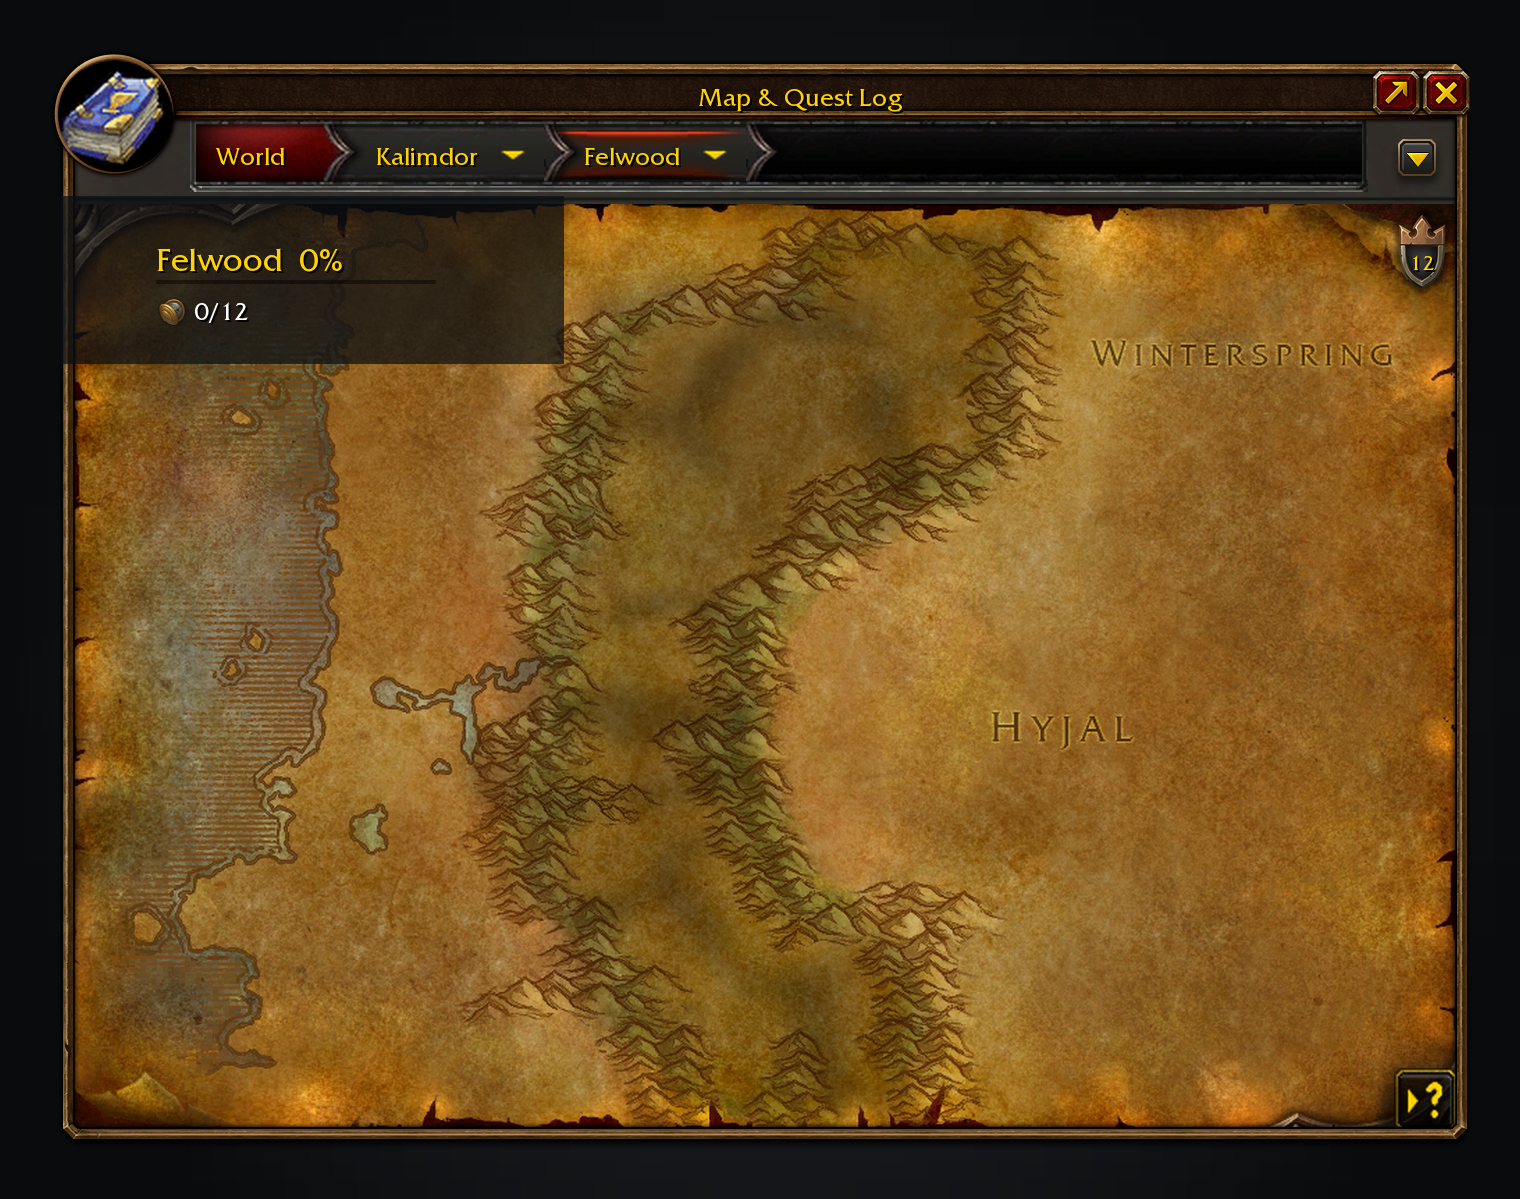
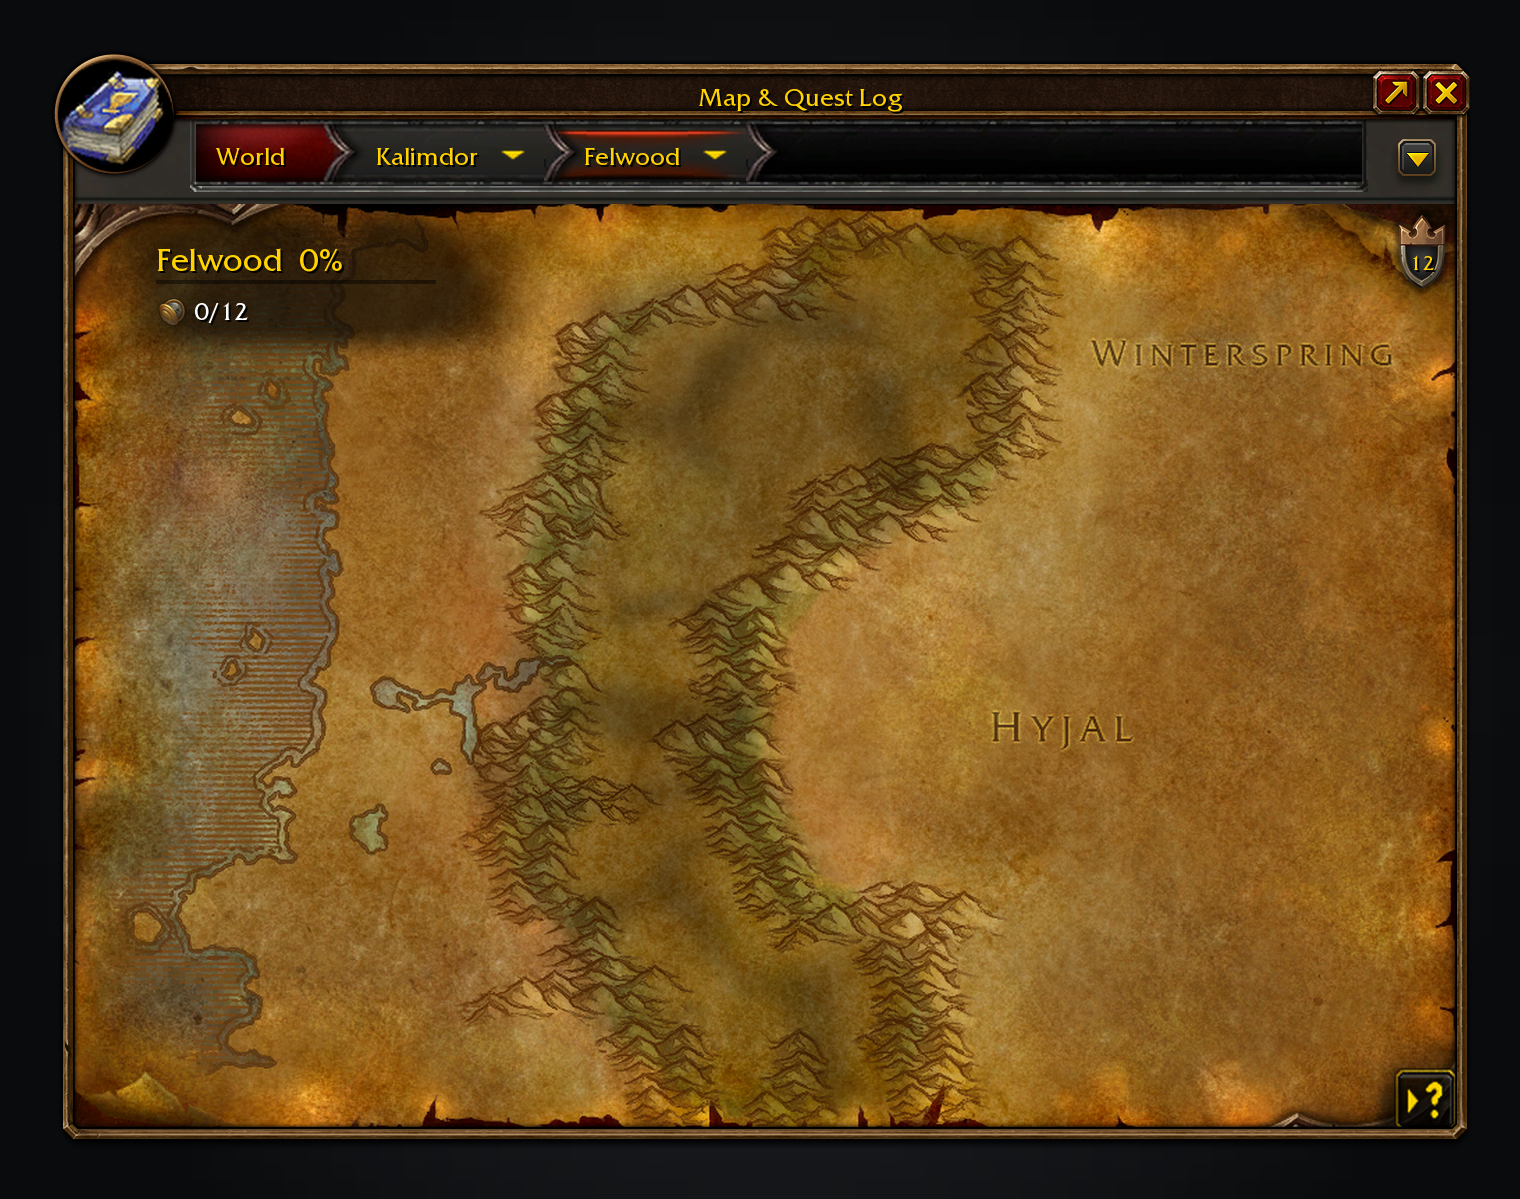
fix(legacy): keep media/Shade.tga, the completion wash draws it at run time
UI/Completion.xml loads Interface\AddOns\LegacyForever\media\Shade as the
feathered wash behind the completion text, so the texture is a runtime asset
rather than screenshot-only tooling art. Restoring the file, its THIRD_PARTY
entry and the screenshot source list keeps the package check green and the
rendered scenes honest.

Changed region(s): [[0.0309, 0.1543, 0.3711, 0.3086]]

diff --git a/tools/screenshots.py b/tools/screenshots.py
@@ -464,7 +464,8 @@ def completion_corner(ui, canvas, rects, result, name, collapsed=False):
     if not collapsed:
         width = max(width, canvas.text_width(counts, counts_font))
         height += 6 + counts_font.height
-    canvas.fill(x - 48, y - 22, width + 48 + 64, height + 44, (0.04, 0.06, 0.08, 0.72))
+    shade = Image.open(ROOT / "media" / "Shade.tga").convert("RGBA")
+    canvas.draw(shade, x - 48, y - 22, width + 48 + 64, height + 44, (1, 1, 1, 0.6))
     canvas.text(x, y, title, title_font)
     bar_y = y + title_font.height + 4
     canvas.fill(x, bar_y, width, 2, (0, 0, 0, 0.45))

diff --git a/tools/check_screenshots.py b/tools/check_screenshots.py
@@ -30,6 +30,7 @@ SOURCES = (
     "UI/Completion.lua",
     "UI/MapContents.lua",
     "UI/Tracker.lua",
+    "media/Shade.tga",
 )
 SCENES = {
     path.name: functools.partial(screens.files, ROOT, SOURCES)

diff --git a/THIRD_PARTY.md b/THIRD_PARTY.md
@@ -11,7 +11,8 @@ refresh that moves the pin never leaves this file behind. The addon itself is GP
 | WoW: Forever client tables, via [wago.tools](https://wago.tools) | Achievements, criteria, zones and instances in `Data/Legacy.lua` | `BUILD` in `tools/gen_legacy.py` | Blizzard Entertainment's game data |
 | `tools/locations.json` | Reviewed facts the client data cannot give (where a criterion happens), each with its evidence | Committed; `tools/locations.py` checks it against the pinned rows | This addon's own |
 
-No embedded libraries ship. `media/` contains this addon's icon, drawn in `media/icon.svg`. `Locales/frFR.lua` is the French translation Brainc3ll wrote (#99), since extended with
+No embedded libraries ship. `media/` is this addon's own: the icon is drawn in `media/icon.svg`, and `Shade.tga`
+is a plain black alpha gradient. `Locales/frFR.lua` is the French translation Brainc3ll wrote (#99), since extended with
 machine-translated lines (marked `-- mt`) for new strings, under this addon's licence.
 
 ## Read in game, never bundled
